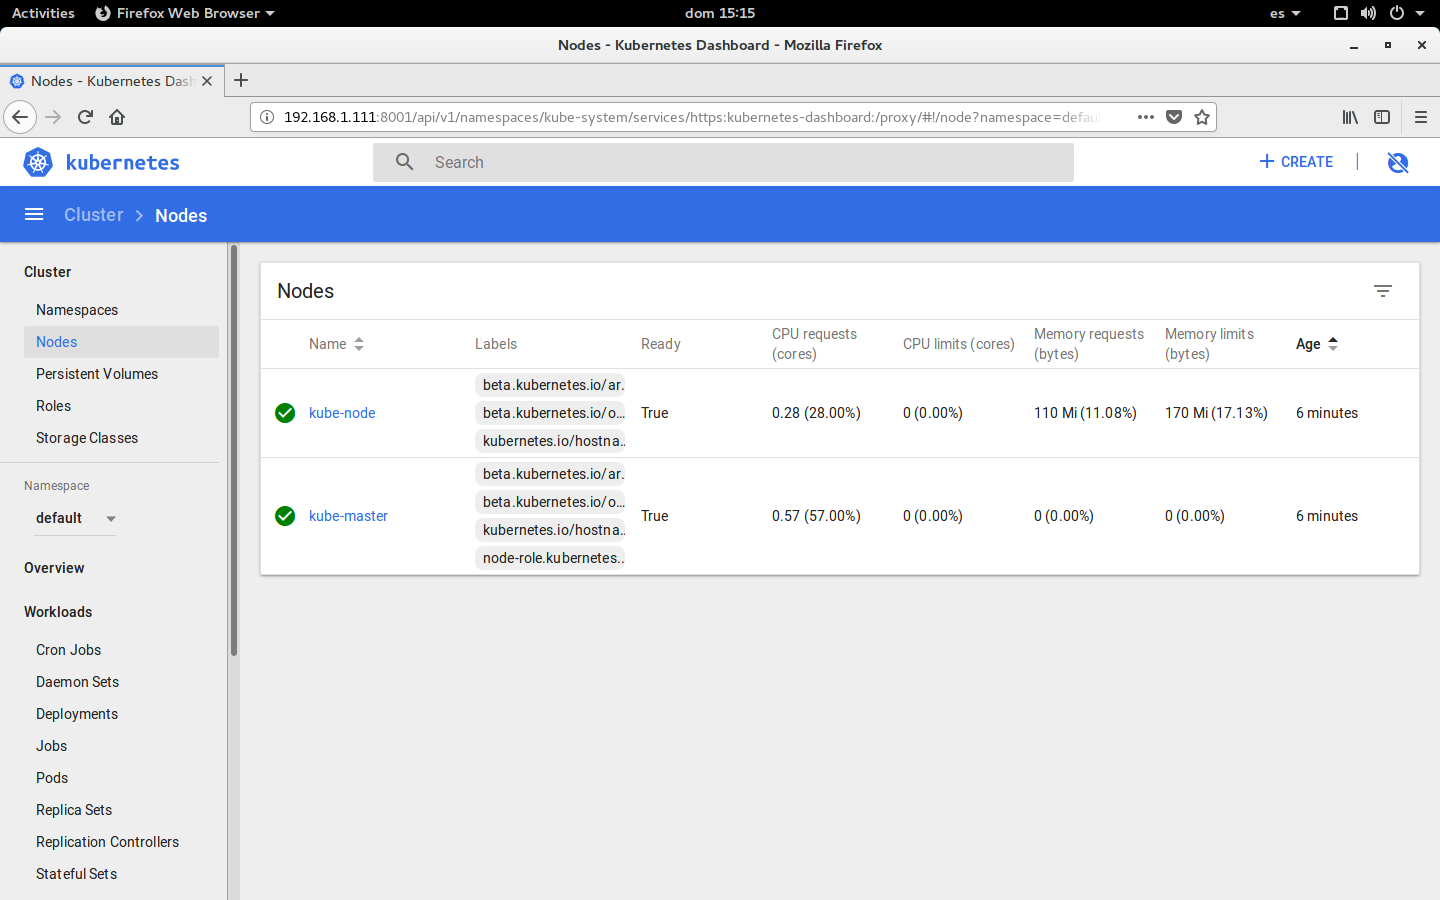
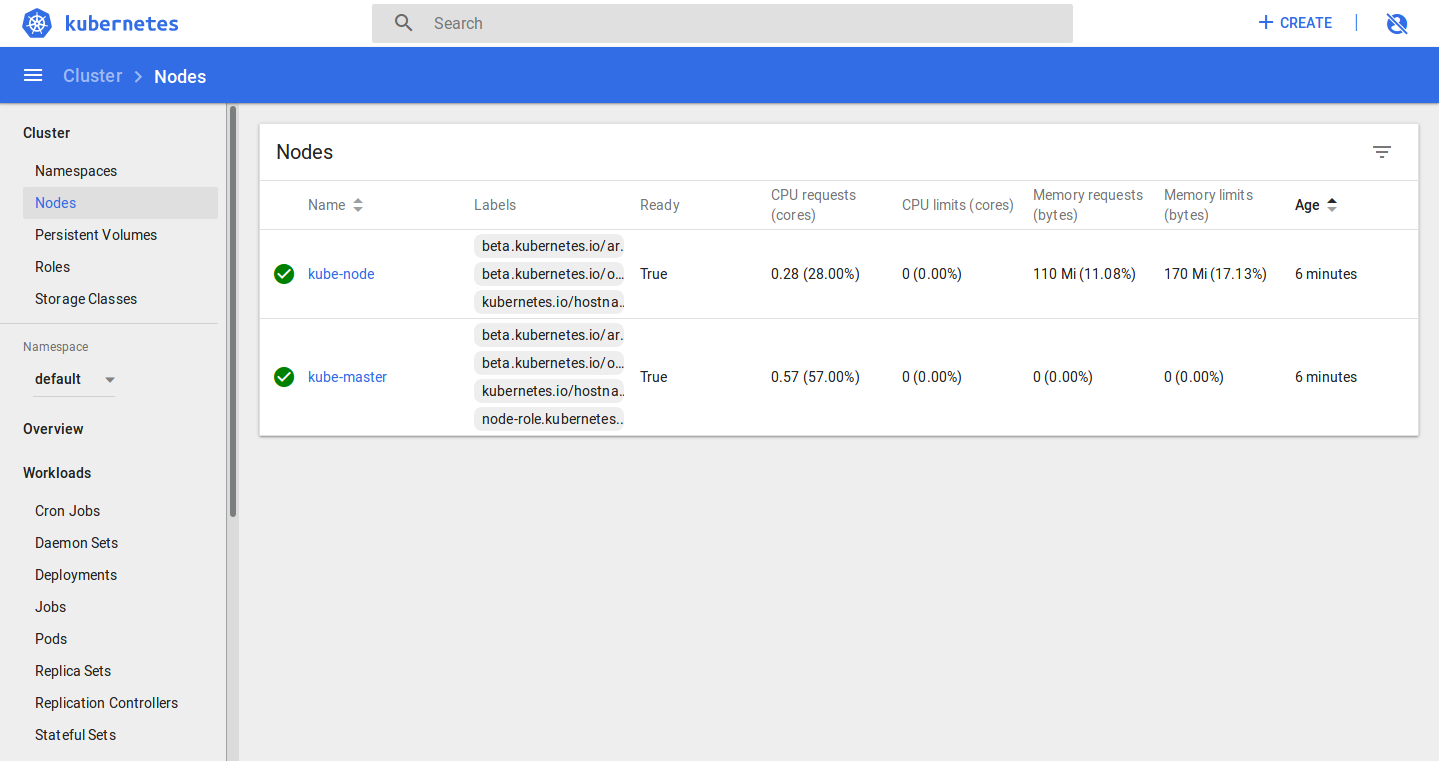
Add access Dashboard in README

diff --git a/README.md b/README.md
@@ -113,7 +113,16 @@ To actually create the instance, run the `terraform apply` command:
 
 <img src="images/one-vms.png">
 
+You can access Dashboard using the kubectl command-line tool by running the following command:
+
+	$ kubectl proxy --address $MASTER_IP --accept-hosts='^*$'
+
+<img src="images/kubernetes-dashboard.png">
+
+
 The last step is to complete the cluster life cycle by removing your resources, do: `terraform destroy`
+
+<img src="images/terraform-destroy.png">
 
 Created by:
 
